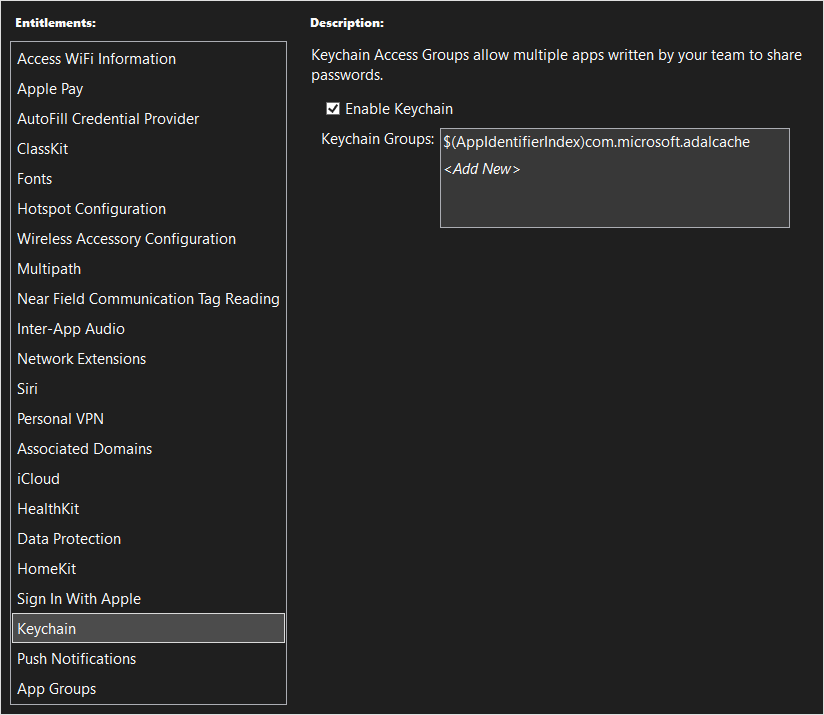
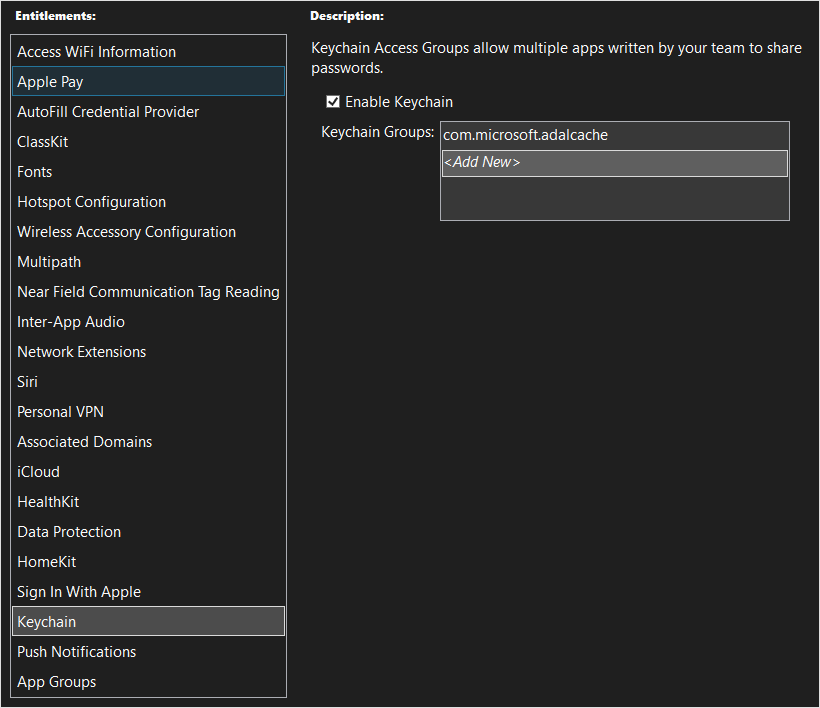
Finished off Xamarin.Forms tutorial

Changed region(s): [[0.0, 0.0, 0.9756, 0.9944]]

diff --git a/articles/mobile-apps/azure-mobile-apps/quickstarts/xamarin-forms/authentication.md b/articles/mobile-apps/azure-mobile-apps/quickstarts/xamarin-forms/authentication.md
@@ -12,8 +12,13 @@ ms.author: adhal
 
 In this tutorial, you add Microsoft authentication to your app using Azure Active Directory. Before completing this tutorial, ensure you have [created the project](./index.md) and [enabled offline sync](./offline.md).
 
+> [!NOTE]
+> Since the iOS app requires keychain access, you will need to set up an iOS provisioning profile.  A provisioning profile requires 
+> either a real iOS device or a paid Apple Developer Account (if using the simulator).  You can skip this tutorial and move on to 
+> adding [offline access to your app](./offline.md) if you cannot use authentication due to this restriction.
+
 > [!TIP]
-> Although we use Azure Active Directory for authentication, you can use any authentication library you wish with Azure Mobile Apps.  
+> Although we use Azure Active Directory for authentication, you can use any authentication library you wish with Azure Mobile Apps. 
 
 [!INCLUDE [Register with AAD for the backend](~/mobile-apps/azure-mobile-apps/includes/quickstart/common/register-aad-backend.md)]
 
@@ -187,6 +192,7 @@ public IPublicClientApplication GetIdentityClient(string applicationId)
 {
     var identityClient = PublicClientApplicationBuilder.Create(applicationId)
         .WithAuthority(AzureCloudInstance.AzurePublic, "common")
+        .WithRedirectUri($"msal{applicationId}://auth")
         .WithParentActivityOrWindow(() => this)
         .Build();
     return identityClient;
@@ -197,137 +203,56 @@ When the shared project requires authentication, it will obtain an identity clie
 
 ## Configure the iOS app for authentication
 
-Open the `AppDelegate.cs` file in the `TodoApp.Forms.iOS` project.
-### Add authentication to the iOS app
-
-Open the `AppDelegate.cs` class in the `ZumoQuickstart.iOS` project.  Add the following code to the end of the class:
+Open the `AppDelegate.cs` file in the `TodoApp.Forms.iOS` project.  Add the following code to the end of the class:
 
 ``` csharp
-    public override bool OpenUrl(UIApplication app, NSUrl url, NSDictionary options)
-        => Xamarin.Essentials.Platform.OpenUrl(app, url, options);
+public override bool OpenUrl(UIApplication app, NSUrl url, NSDictionary options)
+{
+    bool result = AuthenticationContinuationHelper.SetAuthenticationContinuationEventArgs(url);
+    return result || base.OpenUrl(app, url, options);
+}
 
-    public Task<bool> AuthenticateAsync(MobileServiceClient client)
-    {
-        var tcs = new TaskCompletionSource<bool>();
-        var view = UIApplication.SharedApplication.KeyWindow.RootViewController;
-
-        Device.BeginInvokeOnMainThread(async () =>
-        {
-            try
-            {
-                var user = await client.LoginAsync(view, "aad", "zumoquickstart");
-                tcs.TrySetResult(user != null);
-            }
-            catch (Exception error)
-            {
-                var alert = UIAlertController.Create("Sign-in result", error.Message, UIAlertControllerStyle.Alert);
-                alert.AddAction(UIAlertAction.Create("OK", UIAlertActionStyle.Default, null));
-                view.PresentViewController(alert, true, null);
-                tcs.TrySetResult(false);
-            }
-        });
-
-        return tcs.Task;
-    }
+public IPublicClientApplication GetIdentityClient(string applicationId)
+{
+    var identityClient = PublicClientApplicationBuilder.Create(applicationId)
+        .WithIosKeychainSecurityGroup("com.microsoft.adalcache")
+        .WithRedirectUri($"msal{applicationId}://auth")
+        .Build();
+    return identityClient;
+}
 ```
 
-Right-click on the `Info.plist` file, then select **Open with...**.  Select the **XML (Text) Editor**.  Add the following to the file right before the final `</dict>` line.
+Open the `Entitlements.plist` file.  Select **Keychain**, then select **Add New** in the keychain groups.  Enter `com.microsoft.adalcache` as the value:
 
-``` xml
-    <key>CFBundleURLTypes</key>
-    <array>
-      <dict>
-        <key>CFBundleURLName</key>
-        <string>URL Type 1</string>
-        <key>CFBundleURLSchemes</key>
-        <array>
-          <string>zumoquickstart</string>
-        </array>
-        <key>CFBundleTypeRole</key>
-        <string>None</string>
-      </dict>
-    </array>
-```
+![Screenshot showing the iOS entitlements.](./media/ios-entitlements-plist.png)
 
-After the user completes the sign-in, the user will be redirected back to the application.  You can now build and run the application.  The user is prompted to sign-in before the list of items is displayed.
+Finally, add the custom entitlements to the project:
 
-### Add authentication to the UWP app
+1. Right-click on the `TodoApp.Forms.iOS` project, then select **Properties**.
+2. Select **iOS Bundle Signing**.
+3. Select the **...** button next to the **Custom Entitlements** field.
+4. Select `Entitlements`, then select **Open**.
+5. Press **Ctrl+S** to save the project.
 
-Open the `App.xaml.cs` file within the `ZumoQuickstart.UWP` project.  Add the following code to the end of the class:
+![Screenshot showing the iOS bundle signing properties.](./media/ios-bundle-signing.png)
 
-``` csharp
-    public static MobileServiceClient CurrentClient { get; set; } = null;
+## Test the Android app
 
-    protected override void OnActivated(IActivatedEventArgs args)
-    {
-        base.OnActivated(args);
-        if (args.Kind == ActivationKind.Protocol)
-        {
-            MobileServiceClientExtensions.ResumeWithURL(CurrentClient, (args as ProtocolActivatedEventArgs).Uri);
-        }
-    }
-```
+Set `TodoApp.Forms.Android` as the startup project, then press **F5** to build and run the app.  When the app starts, you'll be prompted to sign in to the app.  On the first run, you'll also be asked to consent to the app.  Once this is done, the app runs as normal.
 
-This calls the response handler within Azure Mobile Apps when the response from the authentication service is received.
+## Test the iOS app
 
-Open the `MainPage.xaml.cs` file and add the following code to the end of the class:
+> [!NOTE]
+> Since the iOS app requires keychain access, you will need to set up a provisioning profile.  A provisioning profile requires either a real device or a paid Apple Developer Account (if using the simulator).  
 
-``` csharp
-    public Task<bool> AuthenticateAsync(MobileServiceClient client)
-    {
-        var tcs = new TaskCompletionSource<bool>();
-        Device.BeginInvokeOnMainThread(async () =>
-        {
-            try
-            {
-                var user = await client.LoginAsync("aad", "zumoquickstart");
-                tcs.TrySetResult(user != null);
-            }
-            catch (Exception error)
-            {
-                var dialog = new MessageDialog(error.Message, "Sign-in error");
-                await dialog.ShowAsync();
-                tcs.TrySetResult(false);
-            }
-        });
-
-        return tcs.Task;
-    }
-```
-
-Finally, register the "zumoquickstart" protocol:
-
-* Open the `Package.appxmanifest` file.
-* Select the **Declarations** tab.
-* Under **Available Declarations**, select **Protocol** and then press **Add**.
-* Fill in the form as follows:
-  * Display name: _Authentication Response_
-  * Name: _zumoquickstart_
-  * ExecutableOrStartPageIsRequired: checked
-  All other fields can be left blank.
-
-You can now build and run the application.  When it runs, the sign-in process will be triggered prior to the list of items being displayed.
-
-## Test the app
-
-From the **Run** menu, press **Run app** to start the app.  You'll be prompted for a Microsoft account.  When you're signed in, the app should run as before without errors.
-
-[!INCLUDE [clean-up](~/mobile-apps/azure-mobile-apps/includes/quickstart-clean-up.md)]
-
+Set `TodoApp.Forms.iOS` as the startup project, then press **F5** to build and run the app.  When the app starts, you'll be prompted to sign in to the app.  On the first run, you'll also be asked to consent to the app.  Once this is done, the app runs as normal.
 ## Next steps
 
-Take a look at the HOW TO sections:
+Next, configure your application to operate offline by [implementing an offline store](./offline.md).
 
-* Server ([Node.js](../../howto/server/nodejs.md)
-* Server ([ASP.NET Framework](../../howto/server/dotnet-framework.md))
-* [.NET Client](../../howto/client/dotnet.md)
+## Further reading
 
-You can also do a Quick Start for another platform using the same backend server:
-
-* [Apache Cordova](../cordova/index.md)
-* [Windows (UWP)](../uwp/index.md)
-* [Windows (WPF)](../wpf/index.md)
-* [Xamarin.Android](../xamarin-android/index.md)
-* [Xamarin.iOS](../xamarin-ios/index.md)
-
-[Learn more about developing cross-platform apps with Xamarin.Forms and Azure Mobile Apps with a free book](https://adrianhall.github.io/develop-mobile-apps-with-csharp-and-azure/).
+* [Quickstart: Protect a web API with the Microsoft identity platform](/azure/active-directory/develop/web-api-quickstart?pivots=devlang-aspnet-core)
+* [Configuration requirements and troubleshooting tips for Xamarin Android with MSAL.NET](/azure/active-directory/develop/msal-net-xamarin-android-considerations)
+* [Considerations for using Xamarin iOS with MSAL.NET](/azure/active-directory/develop/msal-net-xamarin-ios-considerations)
+* [Scenario: Mobile application that calls web APIs](/azure/active-directory/develop/scenario-mobile-overview)

diff --git a/articles/mobile-apps/azure-mobile-apps/quickstarts/xamarin-forms/offline.md b/articles/mobile-apps/azure-mobile-apps/quickstarts/xamarin-forms/offline.md
@@ -4,7 +4,7 @@ description: Add offline data sync to your Xamarin.Forms app using Azure Mobile 
 author: adrianhall
 ms.service: mobile-services
 ms.topic: article
-ms.date: 05/05/2021
+ms.date: 05/14/2022
 ms.author: adhal
 ---
 
@@ -18,87 +18,41 @@ To learn more about the offline sync feature, see the topic [Offline Data Sync i
 
 ## Update the app to support offline sync
 
-In online operation, you read to and write from a `MobileServiceTable`.  When using offline sync, you read from and write to a `MobileServiceSyncTable` instead.  The `MobileServiceSyncTable` is backed by an on-device SQLite database, and synchronized with the backend database.
+In online operation, you read to and write from a `IRemoteTable<T>`.  When using offline sync, you read to and write from a `IOfflineTable<T>` instead.  The `IOfflineTable` is backed by an on-device SQLite database, and synchronized with the backend database.
 
-In the `TodoService.cs` class:
+[!INCLUDE[Update NuGet Dependencies](~/mobile-apps/azure-mobile-apps/includes/quickstart/windows/add-offline-nuget.md)]
 
-1. Update the definition of the `mTable` variable, and add a definition for the local store.  Comment out the current definition, and uncomment the offline sync version.
+[!INCLUDE[Update RemoteService](~/mobile-apps/azure-mobile-apps/includes/quickstart/windows/add-offline-code.md)]
 
-    ``` csharp
-    // private IMobileServiceTable<TodoItem> mTable;
-    private IMobileServiceSyncTable<TodoItem> mTable;
-    private MobileServiceSQLiteStore mStore;
-    ```
+### Set the offline database location
 
-   Ensure you add relevant imports using Alt+Enter.
+<!-- TODO: Update for the RemoteTodoService Definition -->
 
-2. Update the `InitializeAsync()` method to define the offline version of the table:
+In the `TodoApp.Forms` project, edit the `App.xaml.cs` file.  Change the definition of the `RemoteTodoService` as follows:
 
-    ``` csharp
-    private async Task InitializeAsync()
-    {
-        using (await initializationLock.LockAsync())
-        {
-            if (!isInitialized)
-            {
-                // Create the client.
-                mClient = new MobileServiceClient(Constants.BackendUrl, new LoggingHandler());
+``` csharp
+TodoService = new RemoteTodoService(async () => await GetAuthenticationToken())
+{
+    OfflineDb = Xamarin.Essentials.FileSystem.AppDataDirectory + "/offline.db"
+};
+```
 
-                // Define the offline store.
-                mStore = new MobileServiceSQLiteStore("todoitems.db");
-                mStore.DefineTable<TodoItem>();
-                await mClient.SyncContext.InitializeAsync(mStore).ConfigureAwait(false);
+If you have not completed the [authentication tutorial](./authentication.md), the definition should look like this instead:
 
-                // Get a reference to the table.
-                mTable = mClient.GetSyncTable<TodoItem>();
-                isInitialized = true;
-            }
-        }
-    }
-    ```
+``` csharp
+TodoService = new RemoteTodoService()
+{
+    OfflineDb = Xamarin.Essentials.FileSystem.AppDataDirectory + "/offline.db"
+};
+```
 
-3. Replace the `SynchronizeAsync()` method that will synchronize the data in the offline store with the online store:
+[!INCLUDE [Instructions for testing offline mode.](~/mobile-apps/azure-mobile-apps/includes/quickstart/common/test-offline-app.md)]
 
-    ``` csharp
-    public async Task SynchronizeAsync()
-    {
-        await InitializeAsync().ConfigureAwait(false);
-
-        IReadOnlyCollection<MobileServiceTableOperationError> syncErrors = null;
-        try
-        {
-            await mClient.SyncContext.PushAsync().ConfigureAwait(false);
-            await mTable.PullAsync("todoitems", mTable.CreateQuery()).ConfigureAwait(false);
-        }
-        catch (MobileServicePushFailedException error)
-        {
-            if (error.PushResult != null)
-            {
-                syncErrors = error.PushResult.Errors;
-            }
-        }
-
-        if (syncErrors != null)
-        {
-            foreach (var syncError in syncErrors)
-            {
-                if (syncError.OperationKind == MobileServiceTableOperationKind.Update && syncError.Result != null)
-                {
-                    // Prefer server copy
-                    await syncError.CancelAndUpdateItemAsync(syncError.Result).ConfigureAwait(false);
-                }
-                else
-                {
-                    // Discard local copy
-                    await syncError.CancelAndDiscardItemAsync().ConfigureAwait(false);
-                }
-            }
-        }
-    }
-    ```
-
-[!INCLUDE [testing](~/mobile-apps/azure-mobile-apps/includes/quickstart-offline-testing.md)]
+[!INCLUDE [Instructions to clean up resources.](~/mobile-apps/azure-mobile-apps/includes/quickstart/common/clean-up.md)]
 
 ## Next steps
 
-Continue on to implement [authentication](./authentication.md).
+* Review the HOW TO documentation:
+  * [ASP.NET6 service documentation](~/mobile-apps/azure-mobile-apps/howto/server/dotnet-core.md)
+  * [.NET client documentation](~/mobile-apps/azure-mobile-apps/howto/client/dotnet.md)
+

diff --git a/articles/mobile-apps/azure-mobile-apps/quickstarts/xamarin-android/authentication.md b/articles/mobile-apps/azure-mobile-apps/quickstarts/xamarin-android/authentication.md
@@ -60,6 +60,7 @@ public async Task<AuthenticationToken> GetAuthenticationToken()
     {
         identityClient = PublicClientApplicationBuilder.Create(Constants.ApplicationId)
             .WithAuthority(AzureCloudInstance.AzurePublic, "common")
+            .WithRedirectUri($"msal{Constants.ApplicationId}://auth")
             .WithParentActivityOrWindow(() => this)
             .Build();
     }
